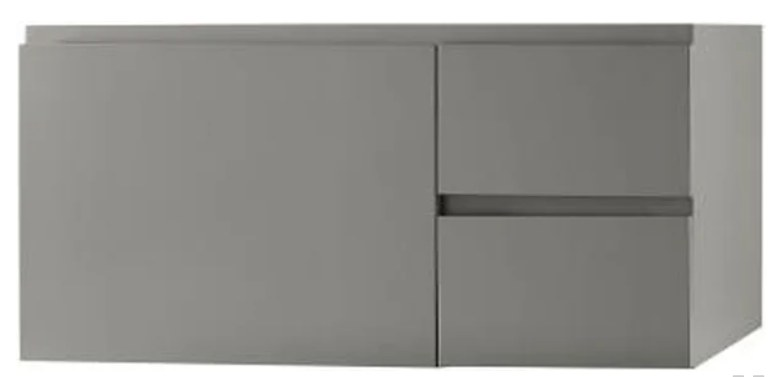
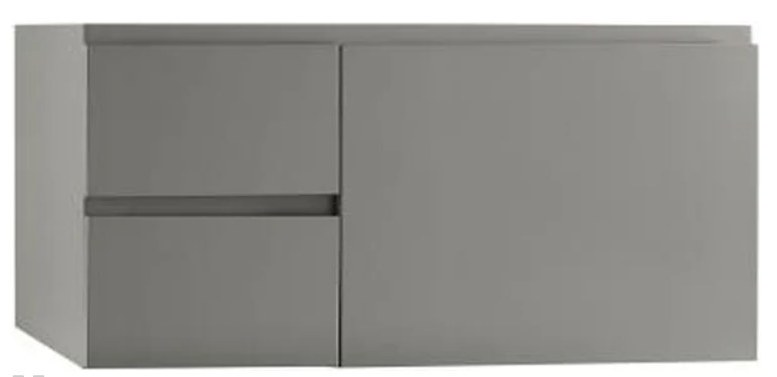
Add files via upload

diff --git a/inventory-data.js b/inventory-data.js
@@ -5,6 +5,33 @@ window.SJ_INVENTORY = {
   "totalProducts": 60,
   "totalQuantity": 381,
   "missingImages": 8,
+  "finishGuide": {
+    "E23": "Glossy White",
+    "E12": "Slate Gray",
+    "E19": "Graphite",
+    "E90": "Sabbia Beige",
+    "E75": "Sable Elm",
+    "E56": "American Walnut",
+    "E40": "Bristol Beige",
+    "E73": "Stone Gray",
+    "F08": "Cinnamon",
+    "F20": "Empire Gray",
+    "F07": "Vintage Walnut",
+    "F21": "Ocean Gray",
+    "F13": "Cafe Walnut",
+    "W01": "White",
+    "H01": "Dark Cherry",
+    "B02": "Black",
+    "B01": "Black",
+    "G47": "Glossy Empire Gray",
+    "E01": "Blush Taupe",
+    "BN": "Brushed Nickel",
+    "CG": "Cool Gray",
+    "BI": "Biscuit",
+    "B1": "Biscuit",
+    "WH": "White",
+    "CW": "Carrara White"
+  },
   "products": [
     {
       "row": 2,
@@ -48,11 +75,11 @@ window.SJ_INVENTORY = {
       "location": "R4A1: 5",
       "msrp": null,
       "salePrice": null,
-      "discount": 55,
-      "discountLabel": "55% off",
+      "discount": 60,
+      "discountLabel": "60% off",
       "image": "assets/products/004-034823-07-e23.jpg",
       "hasPhoto": true,
-      "sourceNote": "User supplied showroom photo IMG_7057.JPG"
+      "sourceNote": "Showroom photo supplied"
     },
     {
       "row": 5,
@@ -340,7 +367,7 @@ window.SJ_INVENTORY = {
       "discountLabel": "75% off",
       "image": "assets/products/022-018936-00-l-e12.jpg",
       "hasPhoto": true,
-      "sourceNote": "High-res old inventory image"
+      "sourceNote": "High-res old inventory image Direction variant pricing aligned."
     },
     {
       "row": 23,
@@ -350,13 +377,13 @@ window.SJ_INVENTORY = {
       "series": "Chloe",
       "quantity": 5,
       "location": "R1A1: 3; R2A4: 2",
-      "msrp": 2225.0,
-      "salePrice": 667.5,
-      "discount": 70,
-      "discountLabel": "70% off",
+      "msrp": 1935.0,
+      "salePrice": 483.75,
+      "discount": 75,
+      "discountLabel": "75% off",
       "image": "assets/products/023-018936-00-r-e12.jpg",
       "hasPhoto": true,
-      "sourceNote": "Same model high-res catalog image"
+      "sourceNote": "Same model high-res catalog image Direction variant pricing aligned. Image mirrored from 018936.00-L-E12."
     },
     {
       "row": 24,
@@ -452,7 +479,7 @@ window.SJ_INVENTORY = {
       "discountLabel": "70% off",
       "image": "assets/products/029-066236-l-e90.jpg",
       "hasPhoto": true,
-      "sourceNote": "Same model photo from 2020 folder"
+      "sourceNote": "Same model photo from 2020 folder Direction variant pricing aligned."
     },
     {
       "row": 30,
@@ -464,11 +491,11 @@ window.SJ_INVENTORY = {
       "location": "R2A4: 2; R2A2: 1",
       "msrp": null,
       "salePrice": null,
-      "discount": 60,
-      "discountLabel": "60% off",
+      "discount": 70,
+      "discountLabel": "70% off",
       "image": "assets/products/030-066236-r-e90.jpg",
       "hasPhoto": true,
-      "sourceNote": "Same model photo from 2020 folder"
+      "sourceNote": "Same model photo from 2020 folder Direction variant pricing aligned. Image mirrored from 066236-L-E90."
     },
     {
       "row": 31,

diff --git a/app.js b/app.js
@@ -1,1 +1,1 @@
-const data=window.SJ_INVENTORY;const grid=document.getElementById('grid');const searchInput=document.getElementById('searchInput');const hideMissing=document.getElementById('hideMissing');const fmt=new Intl.NumberFormat('en-US',{style:'currency',currency:'USD',maximumFractionDigits:0});document.getElementById('statProducts').textContent=data.totalProducts;document.getElementById('statQty').textContent=data.totalQuantity;function price(v){return typeof v==='number'?fmt.format(v):'Ask showroom'}function discountLabel(p){return p.discountLabel||`${p.discount}% off`}function card(p){const img=p.image?`<img src="${p.image}" alt="${escapeHtml(p.name)}">`:`<div class="placeholder">Photo coming soon</div>`;return `<article class="card"><button type="button" data-code="${escapeHtml(p.code)}"><div class="thumb">${img}</div><div class="card-copy"><p class="code">${escapeHtml(p.code)}</p><h3 class="name">${escapeHtml(p.name)}</h3><div class="meta"><div><span class="muted">MSRP</span><br><span class="old">${price(p.msrp)}</span></div><div><span class="badge">${escapeHtml(discountLabel(p).toUpperCase())}</span><br><span class="price">${price(p.salePrice)}</span></div><div><span class="muted">Qty</span><br><span class="qty">${p.quantity}</span></div><div><span class="muted">Finish</span><br>${escapeHtml(p.finish||'')}</div></div></div></button></article>`}function render(){const q=searchInput.value.trim().toLowerCase();const filtered=data.products.filter(p=>{if(hideMissing.checked&&!p.hasPhoto)return false;const hay=[p.code,p.name,p.finish,p.series,p.location].join(' ').toLowerCase();return hay.includes(q)});grid.innerHTML=filtered.map(card).join('')||'<p class="muted">No inventory matches this search.</p>';grid.querySelectorAll('button[data-code]').forEach(btn=>btn.addEventListener('click',()=>openProduct(btn.dataset.code)))}function escapeHtml(s){return String(s??'').replace(/[&<>"]/g,m=>({'&':'&amp;','<':'&lt;','>':'&gt;','"':'&quot;'}[m]))}searchInput.addEventListener('input',render);hideMissing.addEventListener('change',render);const dialog=document.getElementById('productDialog');const dialogImage=document.getElementById('dialogImage');const dialogPlaceholder=document.getElementById('dialogPlaceholder');let zoom=1;function openProduct(code){const p=data.products.find(x=>x.code===code);if(!p)return;document.getElementById('dialogSeries').textContent=p.series||'Ronbow Inventory';document.getElementById('dialogName').textContent=p.name;document.getElementById('dialogCode').textContent=p.code;document.getElementById('dialogFinish').textContent=p.finish||' ';document.getElementById('dialogMsrp').textContent=price(p.msrp);document.getElementById('dialogDiscount').textContent=discountLabel(p);const sale=document.getElementById('dialogSale');sale.textContent=price(p.salePrice);sale.className='sale';document.getElementById('dialogQty').textContent=p.quantity;document.getElementById('dialogLocation').textContent=p.location||' ';zoom=1;dialogImage.style.transform='scale(1)';if(p.image){dialogImage.src=p.image;dialogImage.alt=p.name;dialogImage.hidden=false;dialogPlaceholder.hidden=true}else{dialogImage.hidden=true;dialogPlaceholder.hidden=false}dialog.showModal()}document.getElementById('closeDialog').addEventListener('click',()=>dialog.close());dialog.addEventListener('click',e=>{if(e.target===dialog)dialog.close()});document.getElementById('zoomIn').addEventListener('click',()=>{zoom=Math.min(zoom+.25,3);dialogImage.style.transform=`scale(${zoom})`});document.getElementById('zoomOut').addEventListener('click',()=>{zoom=Math.max(zoom-.25,.5);dialogImage.style.transform=`scale(${zoom})`});document.getElementById('zoomReset').addEventListener('click',()=>{zoom=1;dialogImage.style.transform='scale(1)'});render();
+const data=window.SJ_INVENTORY;const grid=document.getElementById('grid');const searchInput=document.getElementById('searchInput');const hideMissing=document.getElementById('hideMissing');const fmt=new Intl.NumberFormat('en-US',{style:'currency',currency:'USD',maximumFractionDigits:0});document.getElementById('statProducts').textContent=data.totalProducts;document.getElementById('statQty').textContent=data.totalQuantity;const finishGuide=document.getElementById('finishGuide');if(finishGuide&&data.finishGuide){finishGuide.innerHTML=Object.entries(data.finishGuide).map(([code,name])=>`<span class="finish-chip"><strong>${escapeHtml(code)}</strong>${escapeHtml(name)}</span>`).join('')}function price(v){return typeof v==='number'?fmt.format(v):'Ask showroom'}function discountLabel(p){return p.discountLabel||`${p.discount}% off`}function card(p){const img=p.image?`<img src="${p.image}" alt="${escapeHtml(p.name)}">`:`<div class="placeholder">Photo coming soon</div>`;return `<article class="card"><button type="button" data-code="${escapeHtml(p.code)}"><div class="thumb">${img}</div><div class="card-copy"><p class="code">${escapeHtml(p.code)}</p><h3 class="name">${escapeHtml(p.name)}</h3><div class="meta"><div><span class="muted">MSRP</span><br><span class="old">${price(p.msrp)}</span></div><div><span class="badge">${escapeHtml(discountLabel(p).toUpperCase())}</span><br><span class="price">${price(p.salePrice)}</span></div><div><span class="muted">Qty</span><br><span class="qty">${p.quantity}</span></div><div><span class="muted">Finish</span><br>${escapeHtml(p.finish||'')}</div></div></div></button></article>`}function render(){const q=searchInput.value.trim().toLowerCase();const filtered=data.products.filter(p=>{if(hideMissing.checked&&!p.hasPhoto)return false;const hay=[p.code,p.name,p.finish,p.series,p.location].join(' ').toLowerCase();return hay.includes(q)});grid.innerHTML=filtered.map(card).join('')||'<p class="muted">No inventory matches this search.</p>';grid.querySelectorAll('button[data-code]').forEach(btn=>btn.addEventListener('click',()=>openProduct(btn.dataset.code)))}function escapeHtml(s){return String(s??'').replace(/[&<>"]/g,m=>({'&':'&amp;','<':'&lt;','>':'&gt;','"':'&quot;'}[m]))}searchInput.addEventListener('input',render);hideMissing.addEventListener('change',render);const dialog=document.getElementById('productDialog');const dialogImage=document.getElementById('dialogImage');const dialogPlaceholder=document.getElementById('dialogPlaceholder');let zoom=1;function openProduct(code){const p=data.products.find(x=>x.code===code);if(!p)return;document.getElementById('dialogSeries').textContent=p.series||'Ronbow Inventory';document.getElementById('dialogName').textContent=p.name;document.getElementById('dialogCode').textContent=p.code;document.getElementById('dialogFinish').textContent=p.finish||' ';document.getElementById('dialogMsrp').textContent=price(p.msrp);document.getElementById('dialogDiscount').textContent=discountLabel(p);const sale=document.getElementById('dialogSale');sale.textContent=price(p.salePrice);sale.className='sale';document.getElementById('dialogQty').textContent=p.quantity;document.getElementById('dialogLocation').textContent=p.location||' ';zoom=1;dialogImage.style.transform='scale(1)';if(p.image){dialogImage.src=p.image;dialogImage.alt=p.name;dialogImage.hidden=false;dialogPlaceholder.hidden=true}else{dialogImage.hidden=true;dialogPlaceholder.hidden=false}dialog.showModal()}document.getElementById('closeDialog').addEventListener('click',()=>dialog.close());dialog.addEventListener('click',e=>{if(e.target===dialog)dialog.close()});document.getElementById('zoomIn').addEventListener('click',()=>{zoom=Math.min(zoom+.25,3);dialogImage.style.transform=`scale(${zoom})`});document.getElementById('zoomOut').addEventListener('click',()=>{zoom=Math.max(zoom-.25,.5);dialogImage.style.transform=`scale(${zoom})`});document.getElementById('zoomReset').addEventListener('click',()=>{zoom=1;dialogImage.style.transform='scale(1)'});render();

diff --git a/styles.css b/styles.css
@@ -1,1 +1,1 @@
-*{box-sizing:border-box}html{scroll-behavior:smooth}body{margin:0;background:#f7f3ec;color:#171615;font-family:Inter,Arial,sans-serif}.poster-hero{min-height:100vh;background:#e8e0d4;display:grid;place-items:center;padding:0}.poster-hero img{width:100%;height:100vh;object-fit:contain;background:#eee6db}.inventory-shell{max-width:1440px;margin:0 auto;padding:42px 24px 72px}.intro{display:flex;align-items:end;justify-content:space-between;gap:28px;margin-bottom:26px}.eyebrow{margin:0 0 8px;color:#9b762c;text-transform:uppercase;font-size:13px;font-weight:800;letter-spacing:.12em}.intro h1{font-size:clamp(32px,5vw,64px);line-height:1;margin:0 0 12px}.lede{font-size:18px;margin:0;color:#4d4840}.stats{display:flex;gap:12px}.stats div{min-width:116px;background:#fff;border:1px solid #dfd4c2;padding:16px;text-align:center}.stats span{display:block;font-size:34px;font-weight:800}.stats small{color:#716758;text-transform:uppercase;font-weight:700;font-size:11px}.controls{display:flex;gap:18px;align-items:end;justify-content:space-between;margin:0 0 24px}.search{flex:1;display:grid;gap:8px;font-weight:700;color:#5b5247}.search input{width:100%;height:48px;border:1px solid #d2c5b2;border-radius:6px;padding:0 15px;font-size:16px;background:#fff}.toggle{display:flex;align-items:center;gap:10px;height:48px;padding:0 14px;background:#fff;border:1px solid #d2c5b2;border-radius:6px;font-weight:700}.product-grid{display:grid;grid-template-columns:repeat(auto-fill,minmax(260px,1fr));gap:18px}.card{background:#fff;border:1px solid #ddd2c1;border-radius:8px;overflow:hidden;display:flex;flex-direction:column;min-height:100%;box-shadow:0 8px 22px rgba(37,28,18,.06)}.card button{appearance:none;border:0;background:transparent;padding:0;text-align:left;cursor:pointer;color:inherit}.thumb{aspect-ratio:4/3;background:#eee8df;display:grid;place-items:center;overflow:hidden}.thumb img{width:100%;height:100%;object-fit:contain;transition:transform .18s ease}.card:hover .thumb img{transform:scale(1.03)}.placeholder{width:100%;height:100%;display:grid;place-items:center;padding:22px;text-align:center;color:#9b2e25;background:#f7d7d4;font-weight:800;text-transform:uppercase;letter-spacing:.08em}.card-copy{padding:14px 14px 16px}.code{font-size:13px;color:#8c6d2d;font-weight:800;margin:0 0 5px}.name{font-size:17px;line-height:1.25;margin:0 0 10px;min-height:42px}.meta{display:grid;grid-template-columns:1fr 1fr;gap:8px;margin-top:auto}.price{font-weight:900;font-size:20px}.old{color:#766e63;text-decoration:line-through}.badge{display:inline-flex;align-items:center;justify-content:center;min-height:24px;padding:3px 8px;border-radius:5px;background:#171615;color:#fff;font-weight:800;font-size:12px}.qty{font-weight:800}.muted{color:#766e63}.product-dialog{width:min(1180px,94vw);height:min(820px,90vh);border:0;border-radius:10px;padding:0;background:#fff;color:#171615;box-shadow:0 28px 90px rgba(0,0,0,.32)}.product-dialog::backdrop{background:rgba(17,14,10,.68)}.close{position:absolute;top:12px;right:14px;z-index:3;width:42px;height:42px;border:0;border-radius:50%;background:#171615;color:#fff;font-size:28px;cursor:pointer}.dialog-layout{height:100%;display:grid;grid-template-columns:minmax(0,1.35fr) minmax(330px,.65fr)}.image-stage{position:relative;background:#eee8df;display:grid;place-items:center;overflow:auto}.image-stage img{max-width:100%;max-height:100%;object-fit:contain;transform-origin:center center;transition:transform .12s ease}.large{min-height:100%;font-size:20px}.zoom-tools{position:absolute;left:16px;bottom:16px;display:flex;gap:8px}.zoom-tools button{border:1px solid #cbbda7;background:#fff;border-radius:5px;min-width:42px;height:38px;font-weight:800;cursor:pointer}.dialog-copy{padding:56px 28px 30px;overflow:auto}.dialog-copy h2{font-size:30px;line-height:1.08;margin:0 0 22px}.dialog-copy dl{display:grid;gap:12px;margin:0}.dialog-copy div{border-top:1px solid #e2d8c9;padding-top:11px}.dialog-copy dt{font-size:12px;text-transform:uppercase;font-weight:800;color:#8c6d2d;margin-bottom:4px}.dialog-copy dd{margin:0;font-size:18px}.sale{font-weight:900;color:#9b2e25}@media(max-width:760px){.poster-hero img{height:auto;min-height:100vh;object-fit:cover}.intro,.controls{display:grid;align-items:stretch}.stats{display:grid;grid-template-columns:repeat(3,1fr)}.stats div{min-width:0;padding:12px 8px}.stats span{font-size:26px}.product-grid{grid-template-columns:repeat(auto-fill,minmax(170px,1fr));gap:12px}.name{font-size:14px;min-height:54px}.dialog-layout{grid-template-columns:1fr;grid-template-rows:55% 45%}.dialog-copy{padding:22px 18px}.dialog-copy h2{font-size:22px}}
+*{box-sizing:border-box}html{scroll-behavior:smooth}body{margin:0;background:#f7f3ec;color:#171615;font-family:Inter,Arial,sans-serif}.poster-hero{min-height:100vh;background:#e8e0d4;display:grid;place-items:center;padding:0}.poster-hero img{width:100%;height:100vh;object-fit:contain;background:#eee6db}.inventory-shell{max-width:1440px;margin:0 auto;padding:42px 24px 72px}.intro{display:flex;align-items:end;justify-content:space-between;gap:28px;margin-bottom:26px}.eyebrow{margin:0 0 8px;color:#9b762c;text-transform:uppercase;font-size:13px;font-weight:800;letter-spacing:.12em}.intro h1{font-size:clamp(32px,5vw,64px);line-height:1;margin:0 0 12px}.lede{font-size:18px;margin:0;color:#4d4840}.stats{display:flex;gap:12px}.stats div{min-width:116px;background:#fff;border:1px solid #dfd4c2;padding:16px;text-align:center}.stats span{display:block;font-size:34px;font-weight:800}.stats small{color:#716758;text-transform:uppercase;font-weight:700;font-size:11px}.controls{display:flex;gap:18px;align-items:end;justify-content:space-between;margin:0 0 24px}.search{flex:1;display:grid;gap:8px;font-weight:700;color:#5b5247}.search input{width:100%;height:48px;border:1px solid #d2c5b2;border-radius:6px;padding:0 15px;font-size:16px;background:#fff}.toggle{display:flex;align-items:center;gap:10px;height:48px;padding:0 14px;background:#fff;border:1px solid #d2c5b2;border-radius:6px;font-weight:700}.finish-guide{display:grid;grid-template-columns:minmax(220px,.35fr) 1fr;gap:18px;margin:0 0 28px;padding:18px;background:#fff;border:1px solid #dfd4c2;border-radius:8px}.finish-guide h2{margin:0;font-size:24px}.finish-list{display:flex;flex-wrap:wrap;gap:8px}.finish-chip{display:inline-flex;gap:7px;align-items:center;border:1px solid #d8cbb8;border-radius:5px;padding:7px 9px;background:#fbf8f3;font-size:13px}.finish-chip strong{color:#8c6d2d}.product-grid{display:grid;grid-template-columns:repeat(auto-fill,minmax(260px,1fr));gap:18px}.card{background:#fff;border:1px solid #ddd2c1;border-radius:8px;overflow:hidden;display:flex;flex-direction:column;min-height:100%;box-shadow:0 8px 22px rgba(37,28,18,.06)}.card button{appearance:none;border:0;background:transparent;padding:0;text-align:left;cursor:pointer;color:inherit}.thumb{aspect-ratio:4/3;background:#eee8df;display:grid;place-items:center;overflow:hidden}.thumb img{width:100%;height:100%;object-fit:contain;transition:transform .18s ease}.card:hover .thumb img{transform:scale(1.03)}.placeholder{width:100%;height:100%;display:grid;place-items:center;padding:22px;text-align:center;color:#9b2e25;background:#f7d7d4;font-weight:800;text-transform:uppercase;letter-spacing:.08em}.card-copy{padding:14px 14px 16px}.code{font-size:13px;color:#8c6d2d;font-weight:800;margin:0 0 5px}.name{font-size:17px;line-height:1.25;margin:0 0 10px;min-height:42px}.meta{display:grid;grid-template-columns:1fr 1fr;gap:8px;margin-top:auto}.price{font-weight:900;font-size:20px}.old{color:#766e63;text-decoration:line-through}.badge{display:inline-flex;align-items:center;justify-content:center;min-height:24px;padding:3px 8px;border-radius:5px;background:#171615;color:#fff;font-weight:800;font-size:12px}.qty{font-weight:800}.muted{color:#766e63}.product-dialog{width:min(1180px,94vw);height:min(820px,90vh);border:0;border-radius:10px;padding:0;background:#fff;color:#171615;box-shadow:0 28px 90px rgba(0,0,0,.32)}.product-dialog::backdrop{background:rgba(17,14,10,.68)}.close{position:absolute;top:12px;right:14px;z-index:3;width:42px;height:42px;border:0;border-radius:50%;background:#171615;color:#fff;font-size:28px;cursor:pointer}.dialog-layout{height:100%;display:grid;grid-template-columns:minmax(0,1.35fr) minmax(330px,.65fr)}.image-stage{position:relative;background:#eee8df;display:grid;place-items:center;overflow:auto}.image-stage img{max-width:100%;max-height:100%;object-fit:contain;transform-origin:center center;transition:transform .12s ease}.large{min-height:100%;font-size:20px}.zoom-tools{position:absolute;left:16px;bottom:16px;display:flex;gap:8px}.zoom-tools button{border:1px solid #cbbda7;background:#fff;border-radius:5px;min-width:42px;height:38px;font-weight:800;cursor:pointer}.dialog-copy{padding:56px 28px 30px;overflow:auto}.dialog-copy h2{font-size:30px;line-height:1.08;margin:0 0 22px}.dialog-copy dl{display:grid;gap:12px;margin:0}.dialog-copy div{border-top:1px solid #e2d8c9;padding-top:11px}.dialog-copy dt{font-size:12px;text-transform:uppercase;font-weight:800;color:#8c6d2d;margin-bottom:4px}.dialog-copy dd{margin:0;font-size:18px}.sale{font-weight:900;color:#9b2e25}@media(max-width:760px){.poster-hero img{height:auto;min-height:100vh;object-fit:cover}.intro,.controls,.finish-guide{display:grid;align-items:stretch}.stats{display:grid;grid-template-columns:repeat(2,1fr)}.stats div{min-width:0;padding:12px 8px}.stats span{font-size:26px}.product-grid{grid-template-columns:repeat(auto-fill,minmax(170px,1fr));gap:12px}.name{font-size:14px;min-height:54px}.dialog-layout{grid-template-columns:1fr;grid-template-rows:55% 45%}.dialog-copy{padding:22px 18px}.dialog-copy h2{font-size:22px}}